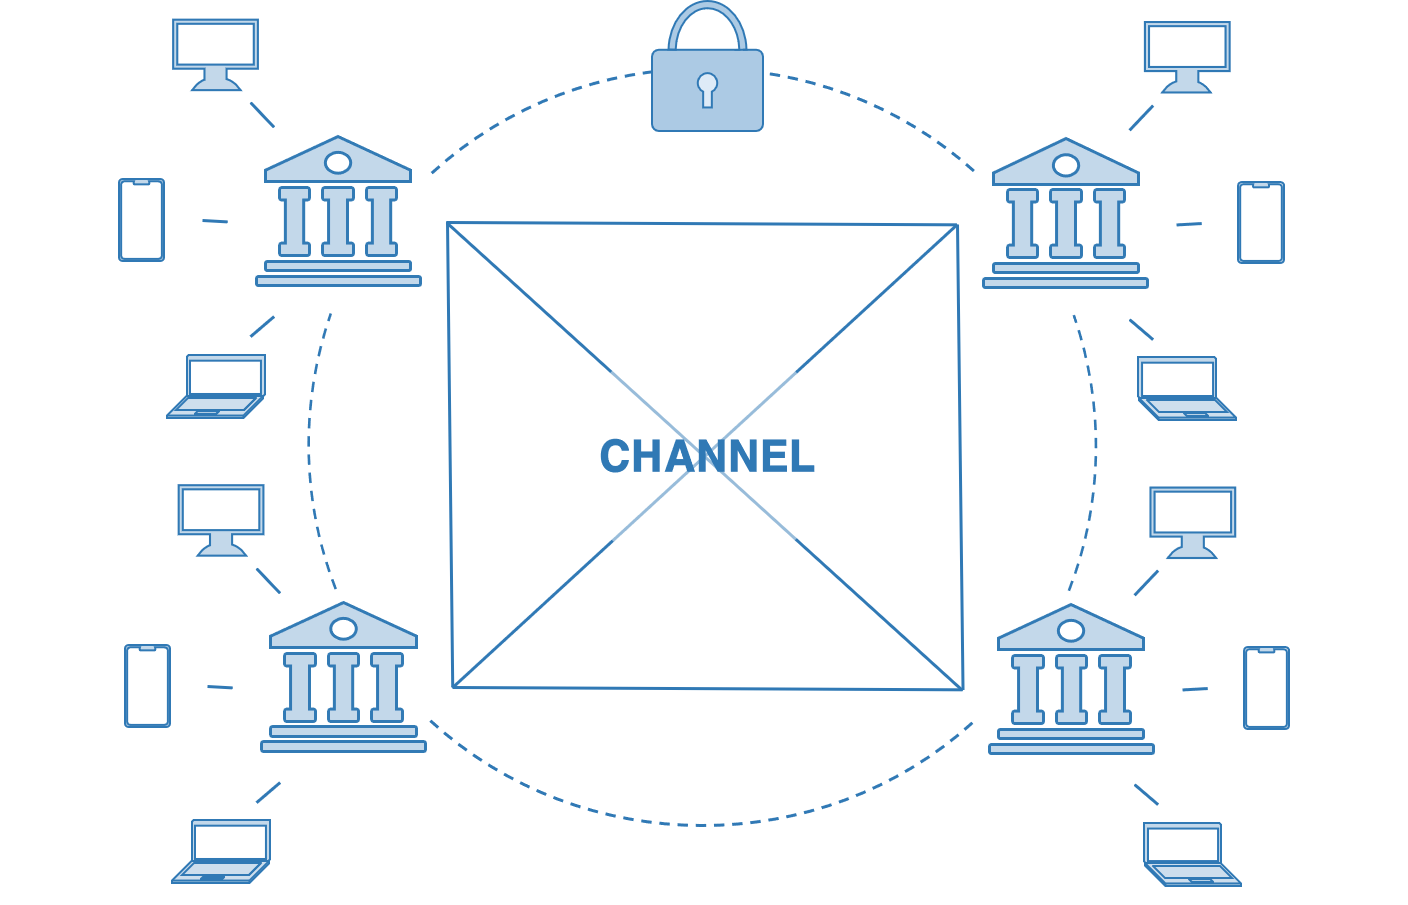
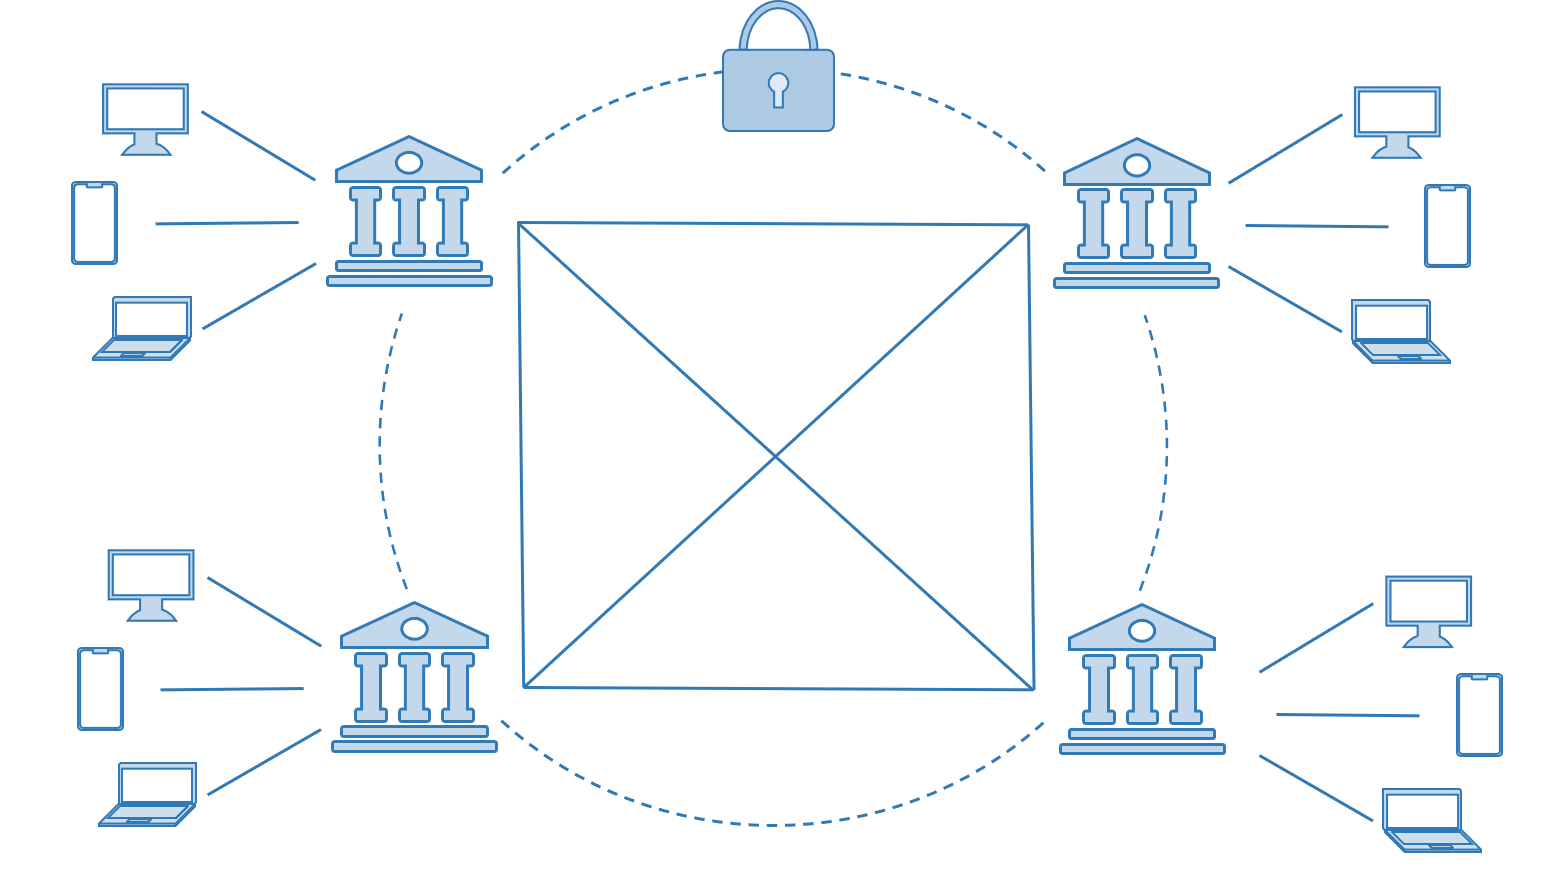
docs: fix tech

diff --git a/introduction/rootchain_intro/src/js/tech.js b/introduction/rootchain_intro/src/js/tech.js
@@ -75,7 +75,7 @@ class Tech extends Component{
                             <p className="contents tech text-center">
                                 RootChain guarantees stability and reliability based on the world-proven Hyperledger Fabric.<br/><br/>
                                 Hyperledger Fabric is a consortium blockchain that only authorized users can participate in,
-                                and companies and organizations with the same purpose or value form a consortium(Channel) and share information within it.
+                                and companies and organizations with the same purpose or value form a consortium and share information within it.
                             </p>
                         </div>
                     </div>
